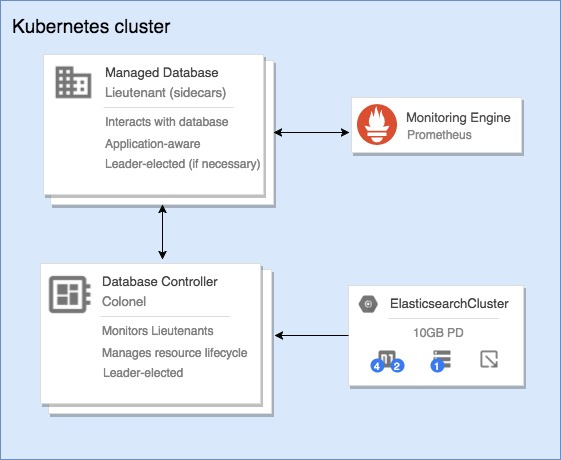
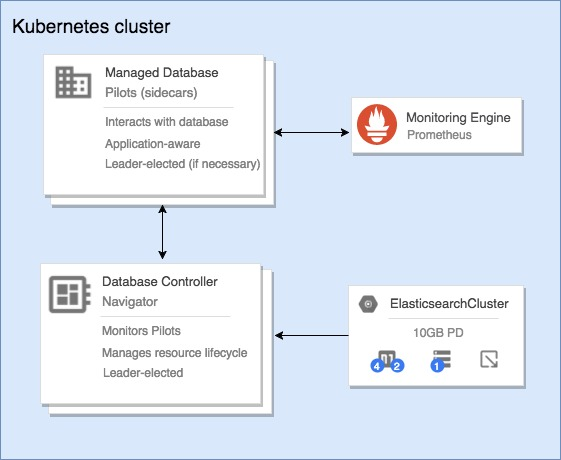
Rename project to navigator

Changed region(s): [[0.1818, 0.1826, 0.4242, 0.213], [0.2727, 0.7, 0.3939, 0.7304], [0.1818, 0.6391, 0.2727, 0.6696]]

diff --git a/pkg/controllers/elasticsearch/elasticsearch.go b/pkg/controllers/elasticsearch/elasticsearch.go
@@ -26,10 +26,10 @@ import (
 	"k8s.io/client-go/tools/record"
 	"k8s.io/client-go/util/workqueue"
 
-	"gitlab.jetstack.net/marshal/colonel/pkg/api/v1"
-	"gitlab.jetstack.net/marshal/colonel/pkg/controllers"
-	informersv1 "gitlab.jetstack.net/marshal/colonel/pkg/informers/v1"
-	listersv1 "gitlab.jetstack.net/marshal/colonel/pkg/listers/v1"
+	"github.com/jetstack-experimental/navigator/pkg/api/v1"
+	"github.com/jetstack-experimental/navigator/pkg/controllers"
+	informersv1 "github.com/jetstack-experimental/navigator/pkg/informers/v1"
+	listersv1 "github.com/jetstack-experimental/navigator/pkg/listers/v1"
 )
 
 type ElasticsearchController struct {
@@ -62,16 +62,21 @@ func NewElasticsearch(
 	services coreinformers.ServiceInformer,
 	cl *kubernetes.Clientset,
 ) *ElasticsearchController {
+	// create an event broadcaster that can be used to send events to an event sink (eg. k8s)
 	eventBroadcaster := record.NewBroadcaster()
+	// log events to our logger
 	eventBroadcaster.StartLogging(logrus.Infof)
+	// log events to k8s
 	eventBroadcaster.StartRecordingToSink(&v1core.EventSinkImpl{Interface: v1core.New(cl.Core().RESTClient()).Events("")})
 	recorder := eventBroadcaster.NewRecorder(api.Scheme, apiv1.EventSource{Component: "elasticsearchCluster"})
 
+	// create a new ElasticsearchController to manage ElasticsearchCluster resources
 	elasticsearchController := &ElasticsearchController{
 		kubeClient: cl,
 		queue:      workqueue.NewNamedRateLimitingQueue(workqueue.DefaultControllerRateLimiter(), "elasticsearchCluster"),
 	}
 
+	// add an event handler to the ElasticsearchCluster informer
 	es.Informer().AddEventHandler(cache.ResourceEventHandlerFuncs{
 		AddFunc: elasticsearchController.enqueueElasticsearchCluster,
 		UpdateFunc: func(old, cur interface{}) {
@@ -85,6 +90,7 @@ func NewElasticsearch(
 	elasticsearchController.esLister = es.Lister()
 	elasticsearchController.esListerSynced = es.Informer().HasSynced
 
+	// add an event handler to the Deployment informer
 	deploys.Informer().AddEventHandler(cache.ResourceEventHandlerFuncs{
 		AddFunc: elasticsearchController.handleDeploy,
 		UpdateFunc: func(old, cur interface{}) {
@@ -100,6 +106,7 @@ func NewElasticsearch(
 	elasticsearchController.deployLister = deploys.Lister()
 	elasticsearchController.deployListerSynced = deploys.Informer().HasSynced
 
+	// add an event handler to the StatefulSet informer
 	statefulsets.Informer().AddEventHandler(cache.ResourceEventHandlerFuncs{
 		AddFunc: elasticsearchController.handleStatefulSet,
 		UpdateFunc: func(old, new interface{}) {
@@ -113,6 +120,7 @@ func NewElasticsearch(
 	elasticsearchController.statefulSetLister = statefulsets.Lister()
 	elasticsearchController.statefulSetListerSynced = statefulsets.Informer().HasSynced
 
+	// add an event handler to the ServiceAccount informer
 	serviceaccounts.Informer().AddEventHandler(cache.ResourceEventHandlerFuncs{
 		AddFunc: elasticsearchController.handleServiceAccount,
 		UpdateFunc: func(old, new interface{}) {
@@ -126,6 +134,7 @@ func NewElasticsearch(
 	elasticsearchController.serviceAccountLister = serviceaccounts.Lister()
 	elasticsearchController.serviceAccountListerSynced = serviceaccounts.Informer().HasSynced
 
+	// add an event handler to the Service informer
 	services.Informer().AddEventHandler(cache.ResourceEventHandlerFuncs{
 		AddFunc: elasticsearchController.handleService,
 		UpdateFunc: func(old, new interface{}) {
@@ -139,6 +148,7 @@ func NewElasticsearch(
 	elasticsearchController.serviceLister = services.Lister()
 	elasticsearchController.serviceListerSynced = services.Informer().HasSynced
 
+	// create the actual ElasticsearchCluster controller
 	elasticsearchController.elasticsearchClusterControl = NewElasticsearchClusterControl(
 		elasticsearchController.statefulSetLister,
 		elasticsearchController.deployLister,
@@ -183,6 +193,7 @@ func NewElasticsearch(
 	return elasticsearchController
 }
 
+// Run is the main event loop
 func (e *ElasticsearchController) Run(workers int, stopCh <-chan struct{}) {
 	defer e.queue.ShutDown()
 

diff --git a/cmd/root.go b/cmd/root.go
@@ -25,10 +25,10 @@ import (
 	metav1 "k8s.io/apimachinery/pkg/apis/meta/v1"
 	"k8s.io/client-go/informers"
 
-	"gitlab.jetstack.net/marshal/colonel/cmd/app"
-	intinformers "gitlab.jetstack.net/marshal/colonel/pkg/informers"
-	"gitlab.jetstack.net/marshal/colonel/pkg/kube"
-	"gitlab.jetstack.net/marshal/colonel/pkg/tpr"
+	"github.com/jetstack-experimental/navigator/cmd/app"
+	intinformers "github.com/jetstack-experimental/navigator/pkg/informers"
+	"github.com/jetstack-experimental/navigator/pkg/kube"
+	"github.com/jetstack-experimental/navigator/pkg/tpr"
 )
 
 var cfgFile string
@@ -36,7 +36,7 @@ var apiServerHost string
 
 // RootCmd represents the base command when called without any subcommands
 var RootCmd = &cobra.Command{
-	Use:   "colonel",
+	Use:   "navigator",
 	Short: "A brief description of your application",
 	Long: `A longer description that spans multiple lines and likely contains
 examples and usage of using your application. For example:
@@ -100,7 +100,7 @@ func init() {
 	// Cobra supports Persistent Flags, which, if defined here,
 	// will be global for your application.
 
-	RootCmd.PersistentFlags().StringVar(&cfgFile, "config", "", "config file (default is $HOME/.colonel.yaml)")
+	RootCmd.PersistentFlags().StringVar(&cfgFile, "config", "", "config file (default is $HOME/.navigator.yaml)")
 	RootCmd.PersistentFlags().StringVar(&apiServerHost, "apiServerHost", "", "optional api server hostname override")
 	// Cobra also supports local flags, which will only run
 	// when this action is called directly.
@@ -113,7 +113,7 @@ func initConfig() {
 		viper.SetConfigFile(cfgFile)
 	}
 
-	viper.SetConfigName(".colonel") // name of config file (without extension)
+	viper.SetConfigName(".navigator") // name of config file (without extension)
 	viper.AddConfigPath("$HOME")    // adding home directory as first search path
 	viper.AutomaticEnv()            // read in environment variables that match
 

diff --git a/pkg/informers/factory.go b/pkg/informers/factory.go
@@ -6,14 +6,14 @@ import (
 	"sync"
 	"time"
 
-	"gitlab.jetstack.net/marshal/colonel/pkg/informers/internalinterfaces"
+	"github.com/jetstack-experimental/navigator/pkg/informers/internalinterfaces"
 	"k8s.io/apimachinery/pkg/runtime"
 	"k8s.io/apimachinery/pkg/runtime/schema"
 	"k8s.io/client-go/rest"
 	"k8s.io/client-go/tools/cache"
 
-	apiv1 "gitlab.jetstack.net/marshal/colonel/pkg/api/v1"
-	"gitlab.jetstack.net/marshal/colonel/pkg/informers/v1"
+	apiv1 "github.com/jetstack-experimental/navigator/pkg/api/v1"
+	"github.com/jetstack-experimental/navigator/pkg/informers/v1"
 )
 
 type SharedInformerFactory interface {

diff --git a/pkg/informers/v1/elasticsearch.go b/pkg/informers/v1/elasticsearch.go
@@ -10,9 +10,9 @@ import (
 	"k8s.io/client-go/rest"
 	"k8s.io/client-go/tools/cache"
 
-	"gitlab.jetstack.net/marshal/colonel/pkg/api/v1"
-	"gitlab.jetstack.net/marshal/colonel/pkg/informers/internalinterfaces"
-	listersv1 "gitlab.jetstack.net/marshal/colonel/pkg/listers/v1"
+	"github.com/jetstack-experimental/navigator/pkg/api/v1"
+	"github.com/jetstack-experimental/navigator/pkg/informers/internalinterfaces"
+	listersv1 "github.com/jetstack-experimental/navigator/pkg/listers/v1"
 )
 
 type ElasticsearchClusterInformer interface {

diff --git a/pkg/api/v1/register.go b/pkg/api/v1/register.go
@@ -54,7 +54,7 @@ func Install(groupFactoryRegistry announced.APIGroupFactoryRegistry, registry *r
 		&announced.GroupMetaFactoryArgs{
 			GroupName:                  SchemeGroupVersion.Group,
 			VersionPreferenceOrder:     []string{SchemeGroupVersion.Version},
-			ImportPrefix:               "gitlab.jetstack.net/marshal/colonel/pkg/api/v1",
+			ImportPrefix:               "github.com/jetstack-experimental/navigator/pkg/api/v1",
 			AddInternalObjectsToScheme: AddToScheme,
 		},
 		announced.VersionToSchemeFunc{

diff --git a/pkg/controllers/elasticsearch/elasticsearch_cluster_control.go b/pkg/controllers/elasticsearch/elasticsearch_cluster_control.go
@@ -15,8 +15,8 @@ import (
 	extensions "k8s.io/client-go/pkg/apis/extensions/v1beta1"
 	"k8s.io/client-go/tools/record"
 
-	"gitlab.jetstack.net/marshal/colonel/pkg/api/v1"
-	"gitlab.jetstack.net/marshal/colonel/pkg/util/errors"
+	"github.com/jetstack-experimental/navigator/pkg/api/v1"
+	"github.com/jetstack-experimental/navigator/pkg/util/errors"
 )
 
 type ElasticsearchClusterControl interface {

diff --git a/cmd/app/elasticsearch.go b/cmd/app/elasticsearch.go
@@ -1,6 +1,6 @@
 package app
 
-import "gitlab.jetstack.net/marshal/colonel/pkg/controllers/elasticsearch"
+import "github.com/jetstack-experimental/navigator/pkg/controllers/elasticsearch"
 
 func newElasticsearchController(ctx *ControllerContext) (bool, error) {
 	go elasticsearch.NewElasticsearch(

diff --git a/pkg/kube/kube.go b/pkg/kube/kube.go
@@ -10,7 +10,7 @@ import (
 	"k8s.io/client-go/rest"
 	"k8s.io/client-go/tools/clientcmd"
 
-	"gitlab.jetstack.net/marshal/colonel/pkg/api/v1"
+	"github.com/jetstack-experimental/navigator/pkg/api/v1"
 )
 
 func NewMarshalRESTClient(apiServerHost string) (*rest.RESTClient, error) {

diff --git a/pkg/tpr/tpr.go b/pkg/tpr/tpr.go
@@ -6,7 +6,7 @@ import (
 	"k8s.io/client-go/kubernetes"
 	"k8s.io/client-go/pkg/apis/extensions/v1beta1"
 
-	"gitlab.jetstack.net/marshal/colonel/pkg/api/v1"
+	"github.com/jetstack-experimental/navigator/pkg/api/v1"
 )
 
 var thirdPartyResource = &v1beta1.ThirdPartyResource{

diff --git a/pkg/controllers/elasticsearch/elasticsearch_cluster_service_acct_control.go b/pkg/controllers/elasticsearch/elasticsearch_cluster_service_acct_control.go
@@ -9,7 +9,7 @@ import (
 	apiv1 "k8s.io/client-go/pkg/api/v1"
 	"k8s.io/client-go/tools/record"
 
-	"gitlab.jetstack.net/marshal/colonel/pkg/api/v1"
+	"github.com/jetstack-experimental/navigator/pkg/api/v1"
 )
 
 type ElasticsearchClusterServiceAccountControl interface {

diff --git a/pkg/controllers/elasticsearch/elasticsearch_cluster_node_pool_control.go b/pkg/controllers/elasticsearch/elasticsearch_cluster_node_pool_control.go
@@ -11,7 +11,7 @@ import (
 	apiv1 "k8s.io/client-go/pkg/api/v1"
 	"k8s.io/client-go/tools/record"
 
-	"gitlab.jetstack.net/marshal/colonel/pkg/api/v1"
+	"github.com/jetstack-experimental/navigator/pkg/api/v1"
 )
 
 type ElasticsearchClusterNodePoolControl interface {

diff --git a/pkg/controllers/elasticsearch/elasticsearch_cluster_service_control.go b/pkg/controllers/elasticsearch/elasticsearch_cluster_service_control.go
@@ -9,7 +9,7 @@ import (
 	apiv1 "k8s.io/client-go/pkg/api/v1"
 	"k8s.io/client-go/tools/record"
 
-	"gitlab.jetstack.net/marshal/colonel/pkg/api/v1"
+	"github.com/jetstack-experimental/navigator/pkg/api/v1"
 )
 
 type ElasticsearchClusterServiceControl interface {
